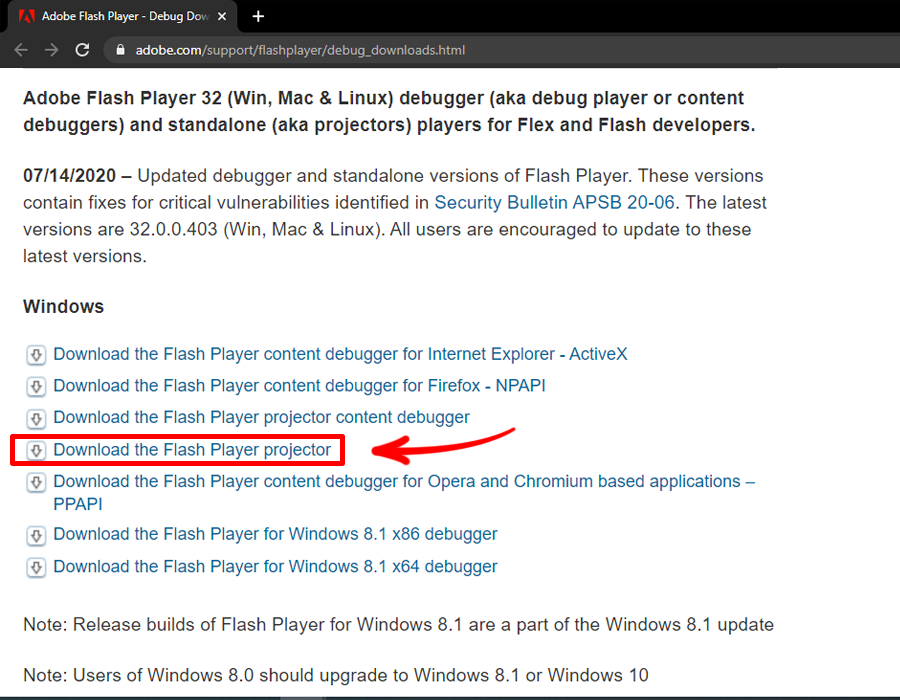
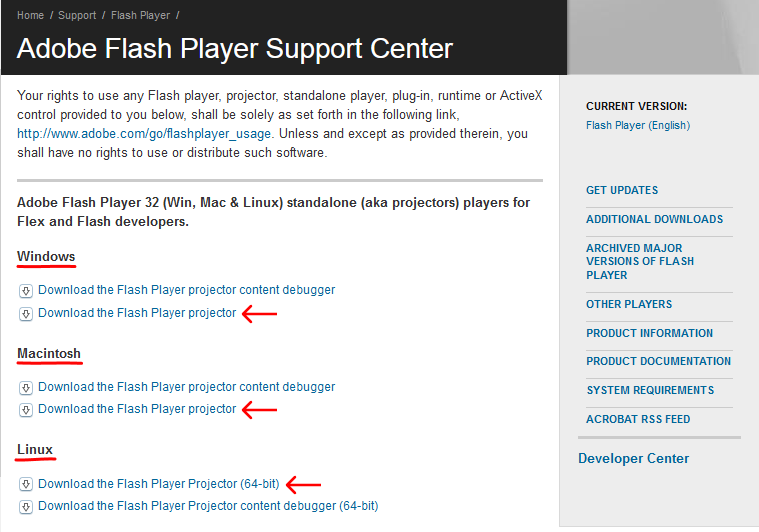
Alteração na página de dúvidas

diff --git a/athena/duvidas.html b/athena/duvidas.html
@@ -303,28 +303,16 @@
 									</h4>
 								</div>
 								<div id="collapse4" class="panel-collapse collapse in">
-									<div class="panel-body corpoTexto"><br>Sim. Para executar alguns recursos,
-										recomendamos habilitar o "Flash" em seu navegador. Por padrão, os navegadores
-										estão com o "Flash" desabilitado e alguns recursos do repositório precisam desta
-										tecnologia para serem executados. <a data-toggle="collapse"
-											data-parent="#accordion" href="#collapse6"
-											onclick="window.location = '#habilitarflash';">Clique aqui</a> e veja como
-										habilitá-lo no Chrome.<br><br>
-										<b>Observação:</b> O navegador Mozilla Firefox não está mais suportando a
-										tecnologia "Flash" e, por conta disso, alguns RED podem não funcionar neste
-										navegador.
-
-
-										<br><br>Também é recomendada a instalação do programa "Adobe Flash Player
-										Projector", compatível com o sistema do seu computador. Abaixo, segue um passo a
-										passo de como baixar e configurar o programa para a utilização dos recursos em
-										"Flash", caso deseje.<br><br>
+									<div class="panel-body corpoTexto"><br>É necessário a instalação do programa "Adobe Flash Player 
+										Projector", atente para versão compatível com o sistema operacional do seu computador (Windows, Mac ou Linux).<br>
+										Abaixo, segue um passo a passo de como baixar e configurar o programa para utilização dos recursos em "Flash".
+										<br><br>
 										<ol>
 											<li>Acesse o site <a
 													href="https://www.adobe.com/support/flashplayer/debug_downloads.html"
 													target="_blank" rel="noopener noreferrer">Adobe Flash Player</a>,
-												role para baixo até encontrar a opção de download apontada na imagem e
-												clique para fazer o download.</li><br>
+												role para baixo até encontrar a opção de download do Adobe Flash Player Projector Compatível 
+												com seu sistema operacional.</li><br>
 											<img src="img/duvidas/p1.png" class="imgTexto"><br><br><br>
 											<li>Selecione o local onde o arquivo será salvo e clique em salvar. Caso
 												essa janela não apareça, significa que o arquivo foi salvo no local
